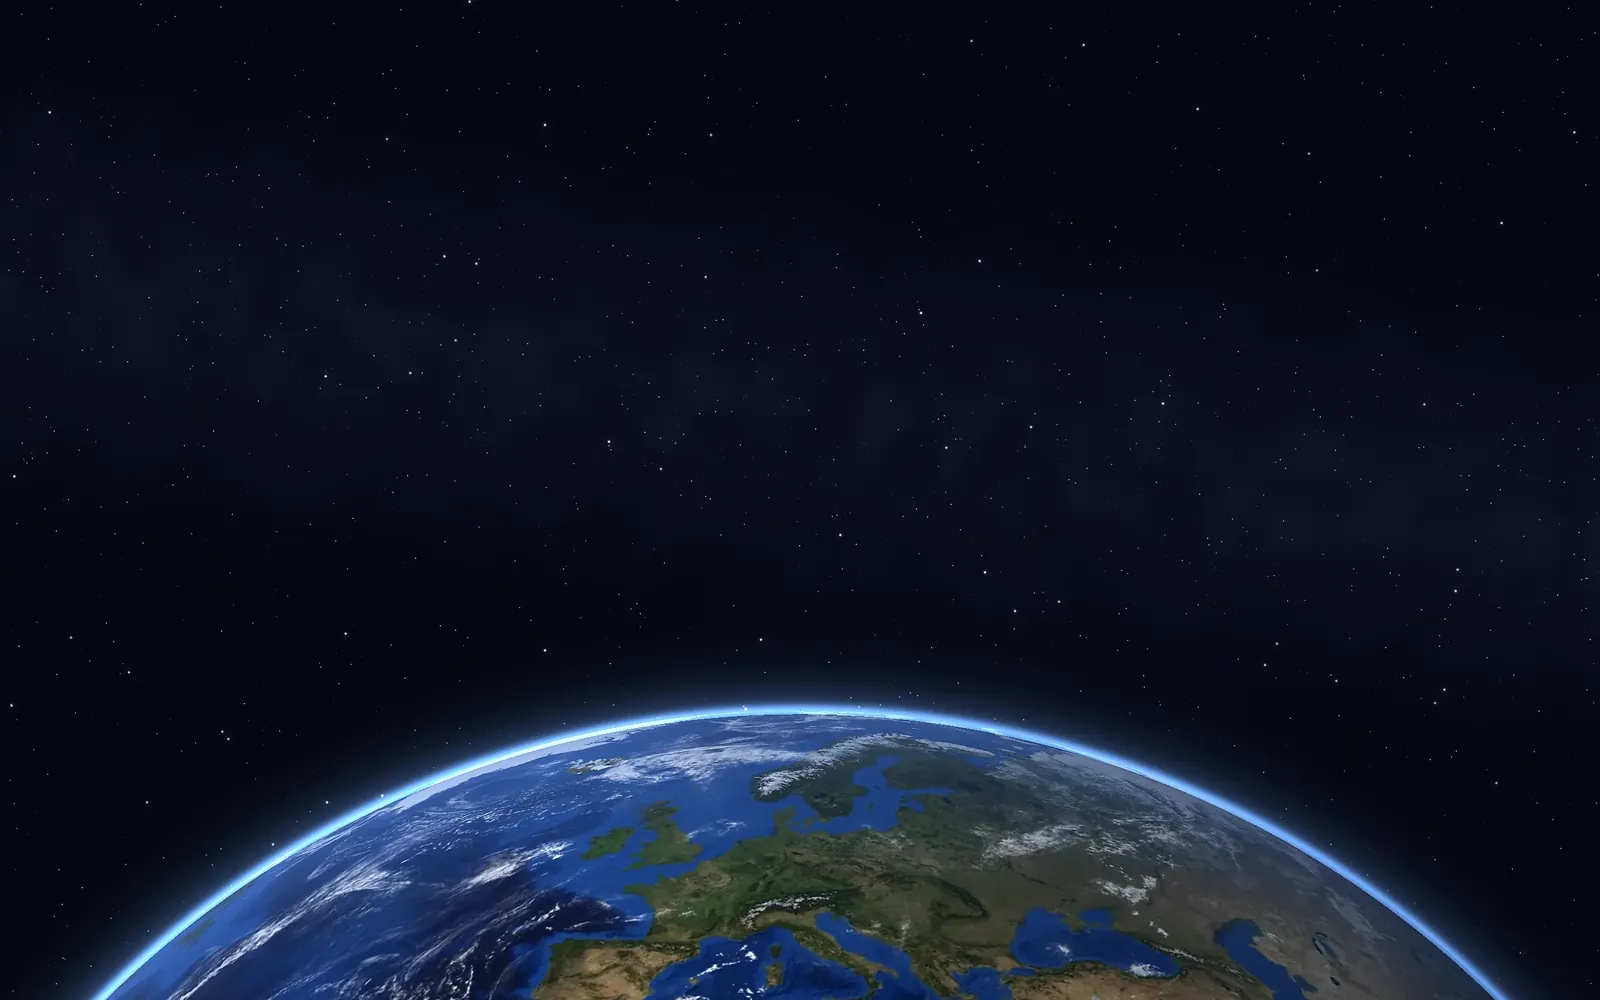
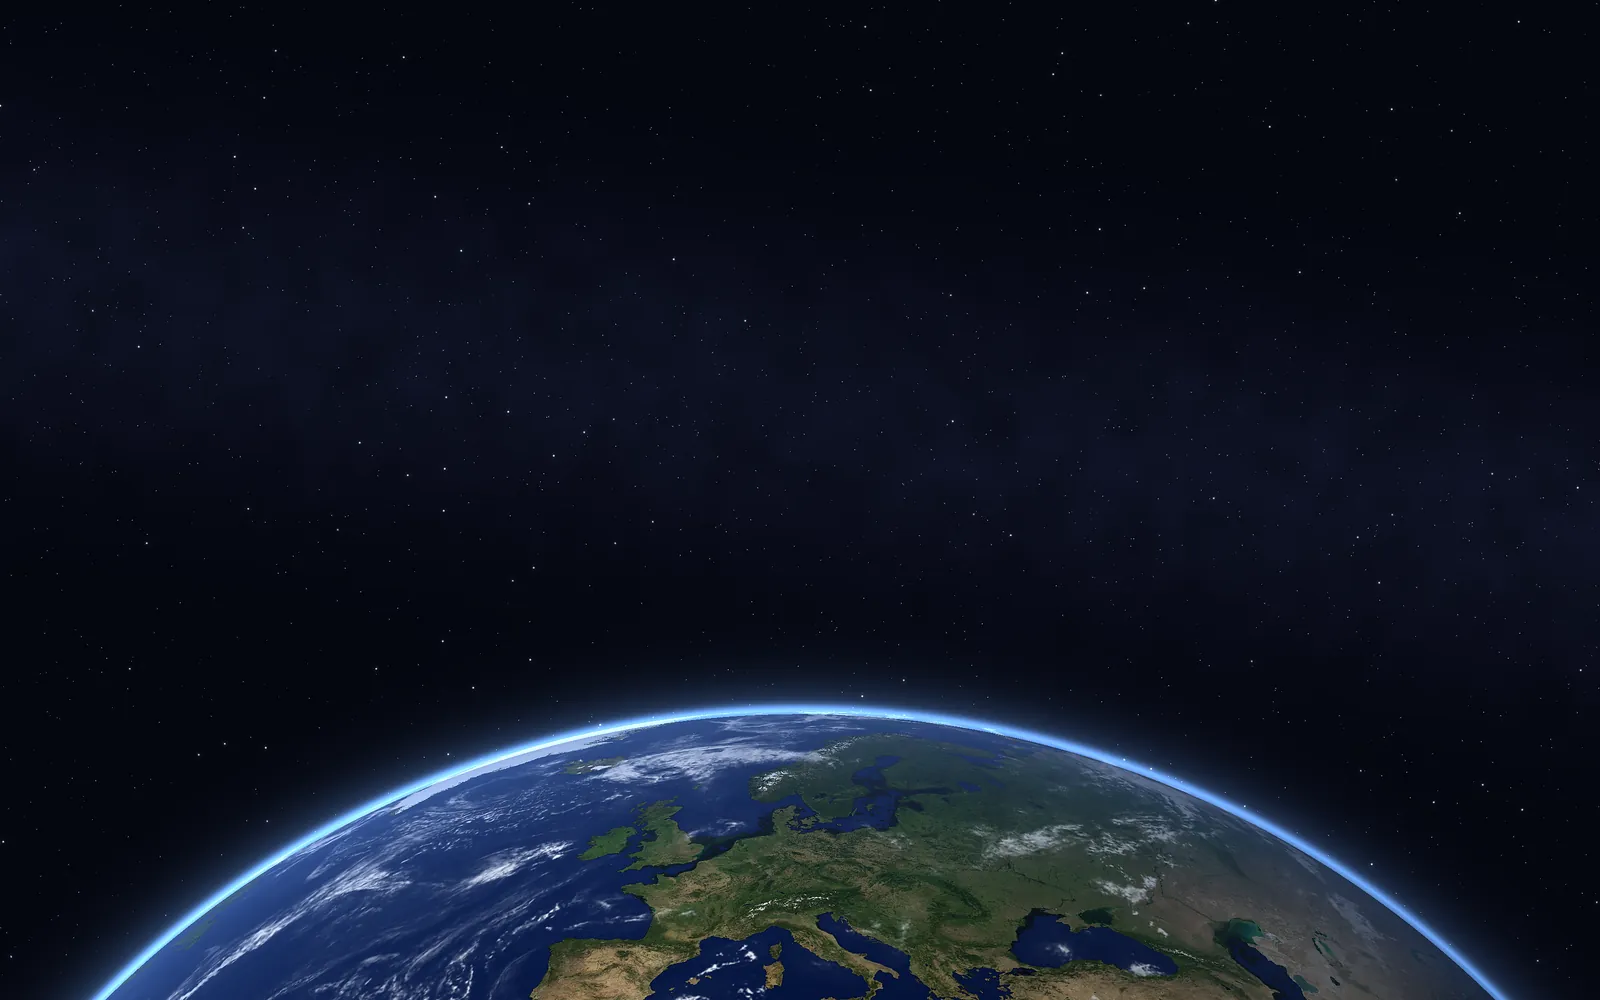
Intro: Terra da Blue Marble NASA a piena risoluzione e transizione Terra-filari più corta
Claude-Session: https://claude.ai/code/session_015YeFeW1Lw6a7WCiQeNdYV6

Changed region(s): [[0.25, 0.713, 0.8125, 1.0], [0.0625, 0.868, 0.1875, 1.0], [0.1562, 0.961, 0.2188, 1.0]]

diff --git a/en/index.html b/en/index.html
@@ -17,8 +17,8 @@
 <meta property="og:image:height" content="630">
 <meta property="og:image:alt" content="Fitosat: logo in the starry sky above the Earth seen from space">
 <meta name="twitter:card" content="summary_large_image">
-<link rel="preload" as="image" href="../img/orbit-p.webp" imagesrcset="../img/orbit-p-900.webp 900w, ../img/orbit-p.webp 1400w" imagesizes="max(100vw, 58.4vh)" media="(orientation: portrait)">
-<link rel="preload" as="image" href="../img/orbit-l.webp" imagesrcset="../img/orbit-l-1600.webp 1600w, ../img/orbit-l.webp 2400w" imagesizes="max(100vw, 160vh)" media="(orientation: landscape)">
+<link rel="preload" as="image" href="../img/orbit-p.webp" imagesrcset="../img/orbit-p-900.webp 900w, ../img/orbit-p.webp 1750w" imagesizes="max(100vw, 58.4vh)" media="(orientation: portrait)">
+<link rel="preload" as="image" href="../img/orbit-l.webp" imagesrcset="../img/orbit-l-1600.webp 1600w, ../img/orbit-l.webp 3200w" imagesizes="max(100vw, 160vh)" media="(orientation: landscape)">
 <link rel="preload" as="font" type="font/woff2" href="../fonts/josefin-700.woff2" crossorigin>
 <link rel="preload" as="font" type="font/woff2" href="../fonts/questrial-400.woff2" crossorigin>
 <link rel="canonical" href="https://fitosat.it/en/">
@@ -822,7 +822,7 @@
 <main id="top">
   <section class="intro" id="intro">
     <div class="intro-sticky">
-      <picture><source media="(orientation: portrait)" srcset="../img/orbit-p-900.webp 900w, ../img/orbit-p.webp 1400w" sizes="max(100vw, 58.4vh)"><img class="intro-layer" data-k="0" src="../img/orbit-l.webp" srcset="../img/orbit-l-1600.webp 1600w, ../img/orbit-l.webp 2400w" sizes="max(100vw, 160vh)" alt="" fetchpriority="high"></picture>
+      <picture><source media="(orientation: portrait)" srcset="../img/orbit-p-900.webp 900w, ../img/orbit-p.webp 1750w" sizes="max(100vw, 58.4vh)"><img class="intro-layer" data-k="0" src="../img/orbit-l.webp" srcset="../img/orbit-l-1600.webp 1600w, ../img/orbit-l.webp 3200w" sizes="max(100vw, 160vh)" alt="" fetchpriority="high"></picture>
       <picture><source media="(orientation: portrait)" srcset="../img/rows-p-900.webp 900w, ../img/rows-p.webp 1400w" sizes="max(100vw, 58.4vh)"><img class="intro-layer" data-k="1" src="../img/rows-l.webp" srcset="../img/rows-l-1600.webp 1600w, ../img/rows-l.webp 2400w" sizes="max(100vw, 160vh)" alt=""></picture>
       <div class="intro-haze" id="haze" aria-hidden="true"></div>
       <div class="intro-veil" id="veil"></div>
@@ -1179,20 +1179,20 @@
     function ss(a, b) { var t = seg(a, b); return t * t * (3 - 2 * t); }
     /* zoom sempre in avanti; ogni immagine resta piena finché quella sopra non la copre del tutto */
     var L = [
-      [1 - ss(0.56, 0.72), 1 + 1.8 * ss(0, 0.7)],
-      [ss(0.3, 0.56), 1 + 0.18 * ss(0.3, 1)]
+      [1 - ss(0.44, 0.56), 1 + 1.8 * ss(0, 0.56)],
+      [ss(0.26, 0.44), 1 + 0.18 * ss(0.26, 1)]
     ];
     /* discesa: la Terra si sfoca mentre ci si avvicina, si attraversa la foschia, il vigneto entra a fuoco */
-    var B = [10 * ss(0.36, 0.6), 14 * (1 - ss(0.34, 0.66))];
+    var B = [10 * ss(0.3, 0.46), 14 * (1 - ss(0.28, 0.5))];
     layers.forEach(function (el, i) {
       el.style.opacity = L[i][0].toFixed(3);
       el.style.transform = "scale(" + L[i][1].toFixed(4) + ")";
       el.style.filter = B[i] > 0.15 ? "blur(" + B[i].toFixed(1) + "px)" : "";
     });
-    var hz = Math.sin(Math.PI * seg(0.38, 0.6));
+    var hz = Math.sin(Math.PI * seg(0.31, 0.47));
     haze.style.opacity = (0.5 * hz).toFixed(3);
-    haze.style.transform = "scale(" + (1 + 0.25 * seg(0.32, 0.64)).toFixed(3) + ")";
-    var o = seg(0.8, 0.95);
+    haze.style.transform = "scale(" + (1 + 0.25 * seg(0.28, 0.5)).toFixed(3) + ")";
+    var o = seg(0.62, 0.8);
     var hp = seg(0, 0.3); hp = hp * hp * (3 - 2 * hp);
     logoEl.style.transform = "translate3d(0," + (hp * handTy).toFixed(1) + "px,0) scale(" + (1 + hp * (handS - 1)).toFixed(4) + ")";
     var so = (1 - seg(0, 0.2)).toFixed(3);

diff --git a/index.html b/index.html
@@ -17,8 +17,8 @@
 <meta property="og:image:height" content="630">
 <meta property="og:image:alt" content="Fitosat: logo nel cielo stellato sopra la Terra vista dallo spazio">
 <meta name="twitter:card" content="summary_large_image">
-<link rel="preload" as="image" href="img/orbit-p.webp" imagesrcset="img/orbit-p-900.webp 900w, img/orbit-p.webp 1400w" imagesizes="max(100vw, 58.4vh)" media="(orientation: portrait)">
-<link rel="preload" as="image" href="img/orbit-l.webp" imagesrcset="img/orbit-l-1600.webp 1600w, img/orbit-l.webp 2400w" imagesizes="max(100vw, 160vh)" media="(orientation: landscape)">
+<link rel="preload" as="image" href="img/orbit-p.webp" imagesrcset="img/orbit-p-900.webp 900w, img/orbit-p.webp 1750w" imagesizes="max(100vw, 58.4vh)" media="(orientation: portrait)">
+<link rel="preload" as="image" href="img/orbit-l.webp" imagesrcset="img/orbit-l-1600.webp 1600w, img/orbit-l.webp 3200w" imagesizes="max(100vw, 160vh)" media="(orientation: landscape)">
 <link rel="preload" as="font" type="font/woff2" href="fonts/josefin-700.woff2" crossorigin>
 <link rel="preload" as="font" type="font/woff2" href="fonts/questrial-400.woff2" crossorigin>
 <link rel="canonical" href="https://fitosat.it/">
@@ -822,7 +822,7 @@
 <main id="top">
   <section class="intro" id="intro">
     <div class="intro-sticky">
-      <picture><source media="(orientation: portrait)" srcset="img/orbit-p-900.webp 900w, img/orbit-p.webp 1400w" sizes="max(100vw, 58.4vh)"><img class="intro-layer" data-k="0" src="img/orbit-l.webp" srcset="img/orbit-l-1600.webp 1600w, img/orbit-l.webp 2400w" sizes="max(100vw, 160vh)" alt="" fetchpriority="high"></picture>
+      <picture><source media="(orientation: portrait)" srcset="img/orbit-p-900.webp 900w, img/orbit-p.webp 1750w" sizes="max(100vw, 58.4vh)"><img class="intro-layer" data-k="0" src="img/orbit-l.webp" srcset="img/orbit-l-1600.webp 1600w, img/orbit-l.webp 3200w" sizes="max(100vw, 160vh)" alt="" fetchpriority="high"></picture>
       <picture><source media="(orientation: portrait)" srcset="img/rows-p-900.webp 900w, img/rows-p.webp 1400w" sizes="max(100vw, 58.4vh)"><img class="intro-layer" data-k="1" src="img/rows-l.webp" srcset="img/rows-l-1600.webp 1600w, img/rows-l.webp 2400w" sizes="max(100vw, 160vh)" alt=""></picture>
       <div class="intro-haze" id="haze" aria-hidden="true"></div>
       <div class="intro-veil" id="veil"></div>
@@ -1179,20 +1179,20 @@
     function ss(a, b) { var t = seg(a, b); return t * t * (3 - 2 * t); }
     /* zoom sempre in avanti; ogni immagine resta piena finché quella sopra non la copre del tutto */
     var L = [
-      [1 - ss(0.56, 0.72), 1 + 1.8 * ss(0, 0.7)],
-      [ss(0.3, 0.56), 1 + 0.18 * ss(0.3, 1)]
+      [1 - ss(0.44, 0.56), 1 + 1.8 * ss(0, 0.56)],
+      [ss(0.26, 0.44), 1 + 0.18 * ss(0.26, 1)]
     ];
     /* discesa: la Terra si sfoca mentre ci si avvicina, si attraversa la foschia, il vigneto entra a fuoco */
-    var B = [10 * ss(0.36, 0.6), 14 * (1 - ss(0.34, 0.66))];
+    var B = [10 * ss(0.3, 0.46), 14 * (1 - ss(0.28, 0.5))];
     layers.forEach(function (el, i) {
       el.style.opacity = L[i][0].toFixed(3);
       el.style.transform = "scale(" + L[i][1].toFixed(4) + ")";
       el.style.filter = B[i] > 0.15 ? "blur(" + B[i].toFixed(1) + "px)" : "";
     });
-    var hz = Math.sin(Math.PI * seg(0.38, 0.6));
+    var hz = Math.sin(Math.PI * seg(0.31, 0.47));
     haze.style.opacity = (0.5 * hz).toFixed(3);
-    haze.style.transform = "scale(" + (1 + 0.25 * seg(0.32, 0.64)).toFixed(3) + ")";
-    var o = seg(0.8, 0.95);
+    haze.style.transform = "scale(" + (1 + 0.25 * seg(0.28, 0.5)).toFixed(3) + ")";
+    var o = seg(0.62, 0.8);
     var hp = seg(0, 0.3); hp = hp * hp * (3 - 2 * hp);
     logoEl.style.transform = "translate3d(0," + (hp * handTy).toFixed(1) + "px,0) scale(" + (1 + hp * (handS - 1)).toFixed(4) + ")";
     var so = (1 - seg(0, 0.2)).toFixed(3);
